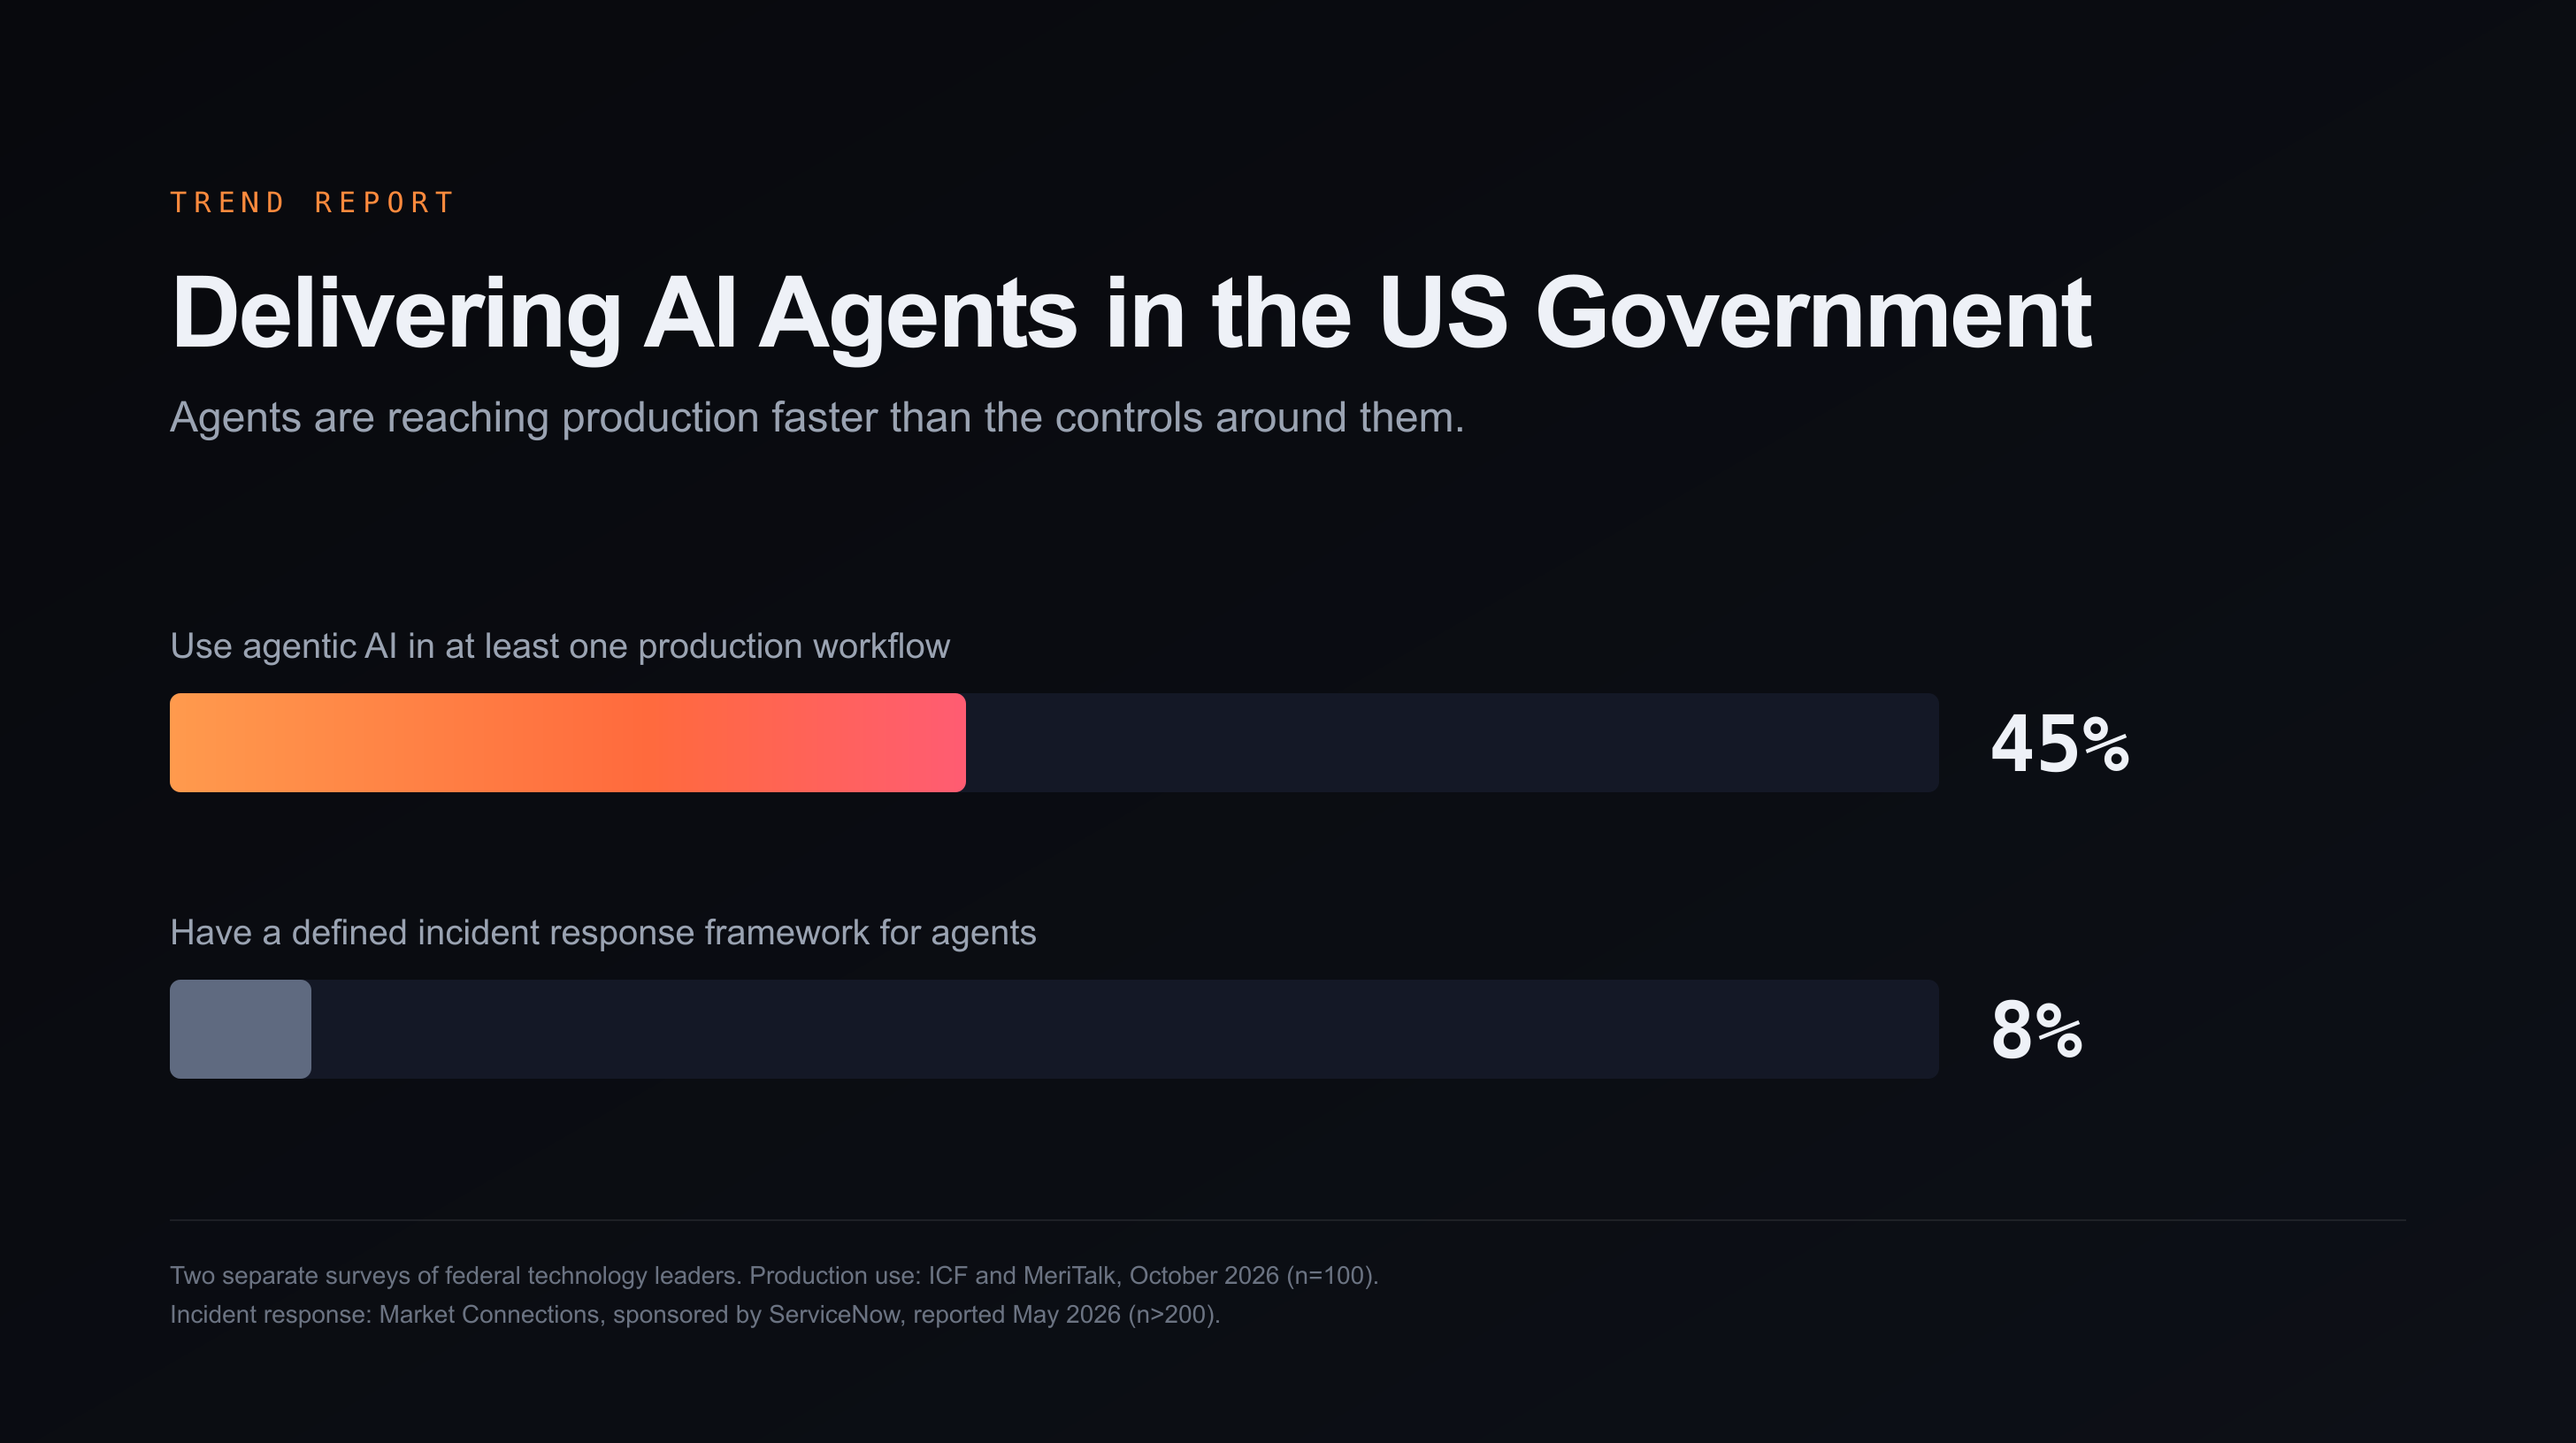
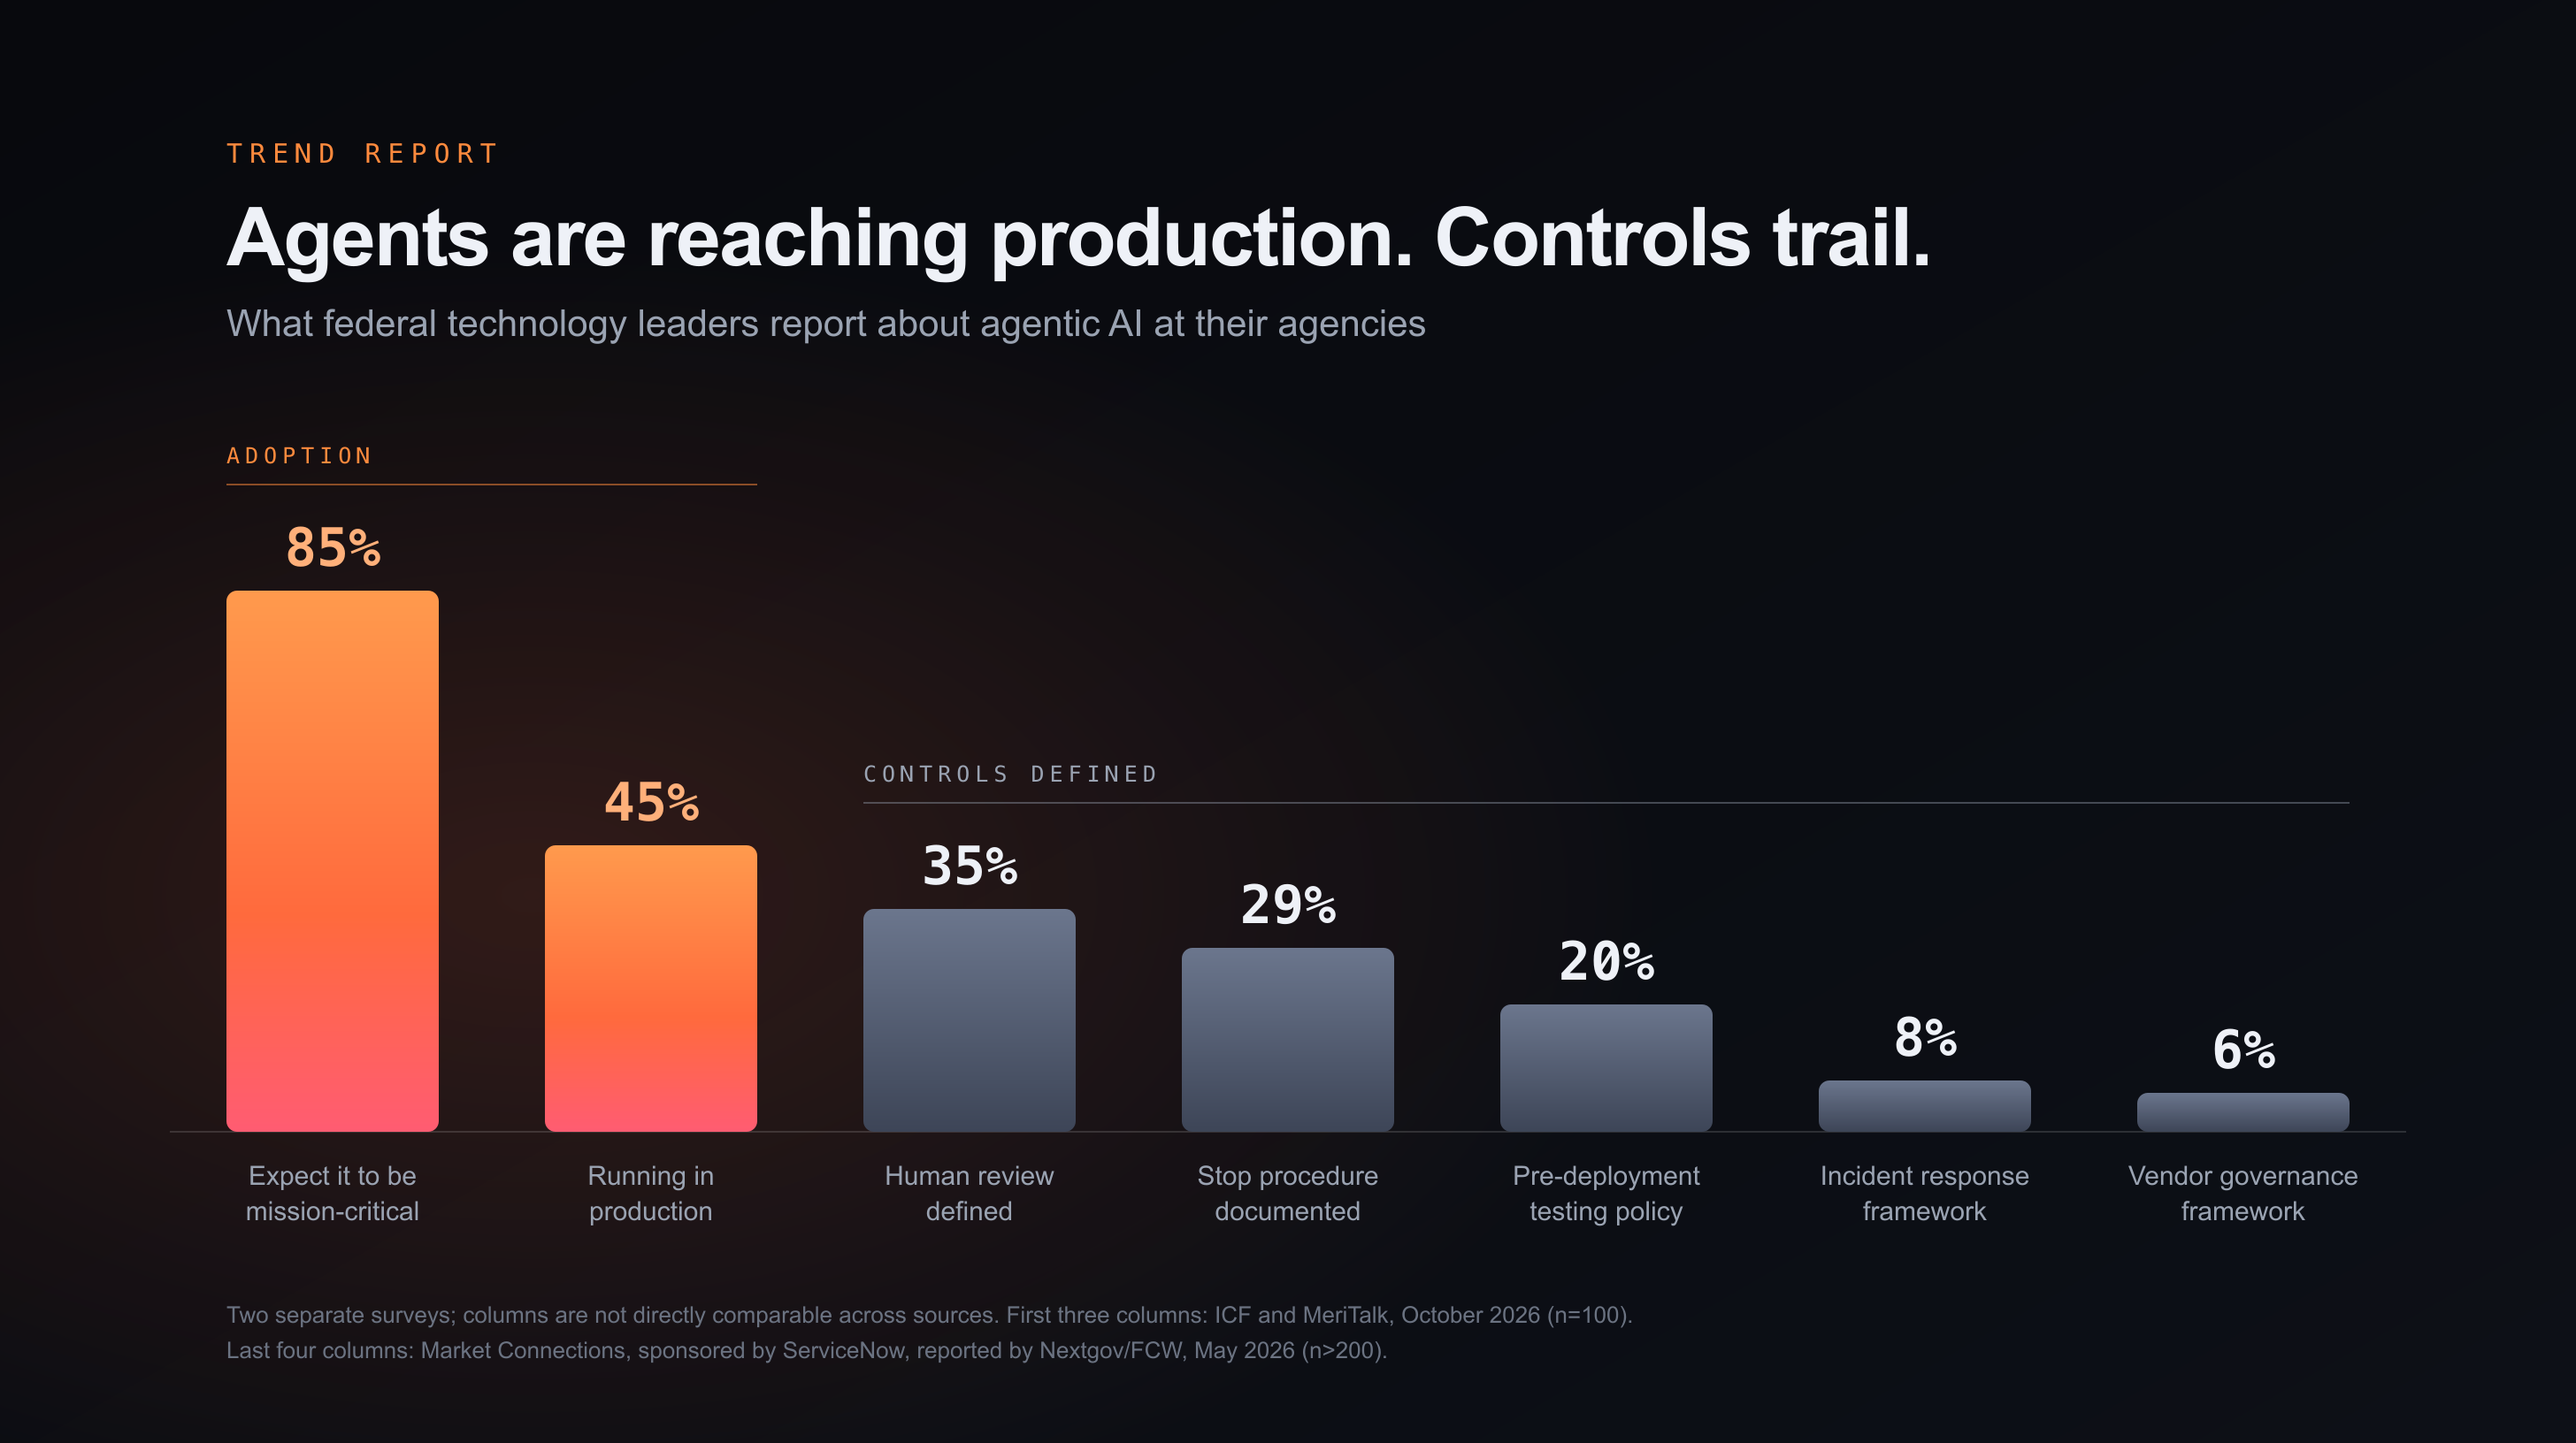
Trend report post: new hero chart and an at-a-glance figure
Hero is now a descending column chart contrasting agent adoption with
defined controls. Adds a 4/5/6 at-a-glance panel under the summary.

diff --git a/src/content/blog/governed-agents-us-government.md b/src/content/blog/governed-agents-us-government.md
@@ -4,7 +4,7 @@ description: "How government leaders can overcome the impediments to governed au
 date: 2026-11-10
 category: "Trend Report"
 image: "/blog/governed-agents-us-government.png"
-imageAlt: "45% of federal IT leaders report agentic AI in a production workflow, while 8% report a defined incident response framework for it"
+imageAlt: "Column chart: 85% of federal IT leaders expect agentic AI to be mission-critical and 45% run it in production, while defined controls fall from 35% for human review to 6% for vendor governance"
 tags:
   - "agentic AI"
   - "AI security"
@@ -33,6 +33,14 @@ tags:
   @media (min-width: 640px) {
     .tr-row { grid-template-columns: 250px minmax(0, 1fr); align-items: center; gap: 14px; }
   }
+  .tr-glance { display: grid; gap: 1px; background: var(--rule); border: 1px solid var(--rule); border-radius: 8px; overflow: hidden; }
+  .tr-gcol { background: var(--surface-2); padding: 14px 16px 16px; }
+  .tr-gnum { font-family: var(--font-display); font-weight: 600; font-size: 2.2rem; line-height: 1; background: var(--grad-sunset); -webkit-background-clip: text; background-clip: text; color: transparent; }
+  .tr-gh { font-family: var(--font-display); font-weight: 600; font-size: 14px; color: var(--text); margin: 6px 0 10px; }
+  .tr-gcol ul { list-style: none; margin: 0; padding: 0; gap: 0.45em; }
+  .tr-gcol li { font-size: 12.5px; line-height: 1.4; color: var(--text-dim); padding: 0 0 0 12px; position: relative; }
+  .tr-gcol li::before { content: ""; position: absolute; left: 0; top: 0.55em; width: 5px; height: 5px; border-radius: 50%; background: var(--sunset); opacity: 0.7; }
+  @media (min-width: 640px) { .tr-glance { grid-template-columns: repeat(3, minmax(0, 1fr)); } }
 </style>
 
 <nav class="tr-toc" aria-label="In this report">
@@ -50,6 +58,16 @@ tags:
 ## Summary
 
 The federal government does not have an interest problem with AI agents. It has a control problem. Published surveys of federal IT leaders show agents already running in production workflows and near-universal agreement that they will matter to the mission. The same surveys show that most agencies have not yet defined the testing, oversight, incident response, or vendor accountability that production use demands. This report outlines why governed delivery has to come first, the impediments that slow it down, the enablers that make it possible, and six strategies for getting agents into production without outrunning the controls.
+
+<figure class="tr-fig" aria-label="The report at a glance: four impediments, five enablers, six strategies">
+  <div class="tr-fig-k">At a glance</div>
+  <div class="tr-fig-t">Four impediments, five enablers, six strategies</div>
+  <div class="tr-glance">
+    <div class="tr-gcol"><div class="tr-gnum">4</div><div class="tr-gh">Impediments</div><ul><li>Authorization built for systems that hold still</li><li>Identities designed for people</li><li>Workflows built around human handoffs</li><li>Prompt injection with no complete fix</li></ul></div>
+    <div class="tr-gcol"><div class="tr-gnum">5</div><div class="tr-gh">Enablers</div><ul><li>Identity</li><li>Enforcement</li><li>Evidence</li><li>People</li><li>Measurement</li></ul></div>
+    <div class="tr-gcol"><div class="tr-gnum">6</div><div class="tr-gh">Strategies</div><ul><li>Start where actions are reversible</li><li>Bound the authorization blast radius</li><li>Enforce outside the agent's reach</li><li>Treat model, tool, and prompt changes as changes</li><li>Write the stop procedure first</li><li>Buy accountability into the contract</li></ul></div>
+  </div>
+</figure>
 
 ## Federal leaders are committed to agents but controls lag adoption
 
